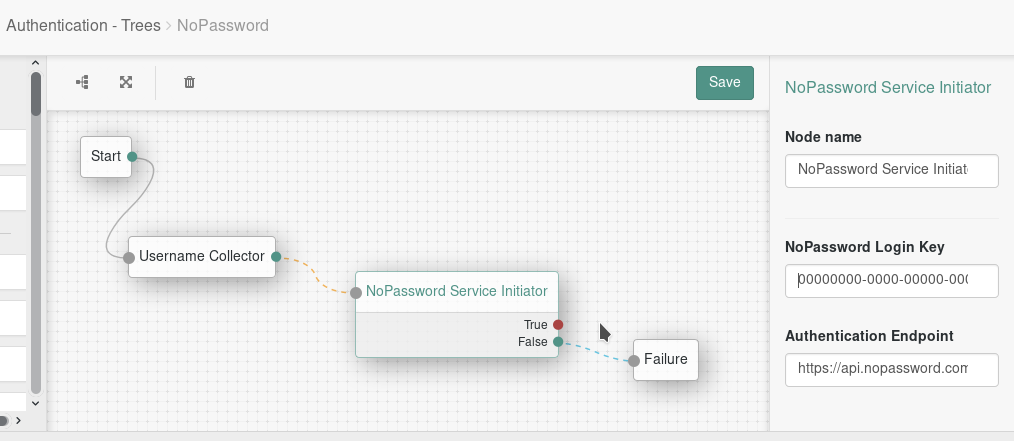
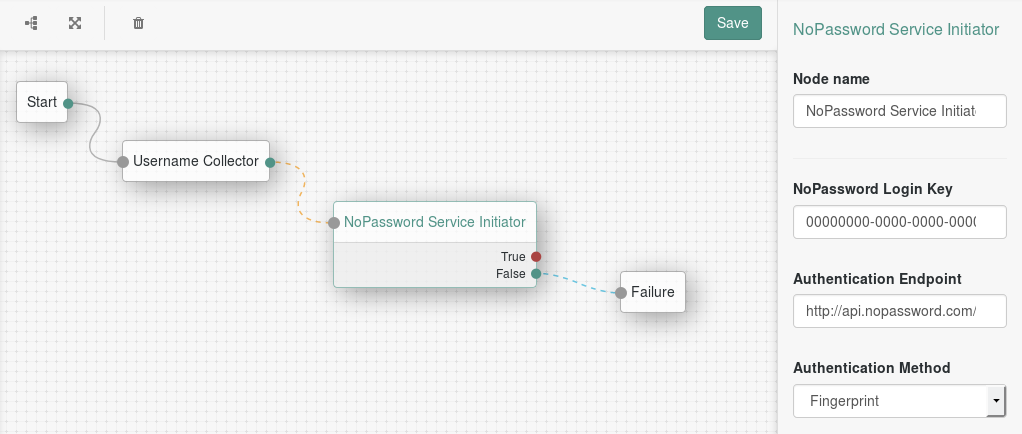
Authentication methods parameter added

diff --git a/src/main/java/com/nopassword/openam/node/AuthHelper.java b/src/main/java/com/nopassword/openam/node/AuthHelper.java
@@ -91,10 +91,11 @@ public class AuthHelper {
         return mapper.readValue(input.toString(), resultType);
     }
 
-    public static Map<String, Object> authenticateUser(String username, String clientIp, String authURL, String genericAPIKey) {
+    public static Map<String, Object> authenticateUser(String username, String clientIp,
+            String authURL, String genericAPIKey, AuthenticationMethod authMethod) {
         Map result = null;
         try {
-            Map request = makeAuthRequest(username, clientIp, genericAPIKey);
+            Map request = makeAuthRequest(username, clientIp, genericAPIKey, authMethod);
             result = doPost(authURL, request, Map.class);
 
             if ((boolean) result.get(Constants.SUCCEEDED)) {
@@ -112,7 +113,7 @@ public class AuthHelper {
         return result;
     }
 
-    public static Map makeAuthRequest(String username, String clientIp, String apiKey) {
+    public static Map makeAuthRequest(String username, String clientIp, String apiKey, AuthenticationMethod authMethod) {
         if (!isValidUsername(username)) {
             DEBUG.message("Invalid user: " + username);
             throw new IllegalArgumentException("invalid user");
@@ -122,12 +123,13 @@ public class AuthHelper {
             throw new IllegalArgumentException("invalid API key");
         }
 
-        Map<String, String> request = new HashMap();
+        Map<String, Object> request = new HashMap();
         request.put(Constants.API_KEY, apiKey);
         request.put(Constants.USERNAME, username);
         request.put(Constants.BROWSER_ID, UUID.randomUUID().toString());
         request.put(Constants.DEVICE_NAME, "ForgeRock AM");
         request.put(Constants.IP_ADDRESS, clientIp);
+        request.put(Constants.AUTHENTICATION_METHODS, new String[]{authMethod.name()});
         return request;
     }
 
@@ -143,15 +145,17 @@ public class AuthHelper {
         return apiKey == null ? false : API_KEY_REGEX.matcher(apiKey).matches();
     }
 
-    public static AuthStatus checkLoginToken(String loginToken, String url) {
+    public static AuthStatus checkLoginToken(String username, String loginToken, String url) {
         try {
             Map<String, String> request = new HashMap<>();
             request.put(Constants.ASYNC_LOGIN_TOKEN, loginToken);
+            request.put(Constants.USERNAME, username);
             Map<String, Object> result = doPost(url, request, Map.class);
+            DEBUG.message("result=" + result);
             result = (Map) result.get(Constants.VALUE);
-            DEBUG.message(result.toString());
+//            DEBUG.message(result.toString());
             return AuthStatus.valueOf((String) result.get(Constants.AUTH_STATUS));
-        } catch (IOException ex) {
+        } catch (Exception ex) {
             DEBUG.error("Error checking login token", ex);
             return AuthStatus.Failure;
         }

diff --git a/src/main/java/com/nopassword/openam/node/ServiceInitiatorNode.java b/src/main/java/com/nopassword/openam/node/ServiceInitiatorNode.java
@@ -25,6 +25,7 @@ import com.sun.identity.authentication.spi.AuthLoginException;
 import com.sun.identity.idm.AMIdentity;
 import com.sun.identity.idm.IdRepoException;
 import com.sun.identity.shared.debug.Debug;
+import com.sun.identity.sm.RequiredValueValidator;
 import org.forgerock.openam.annotations.sm.Attribute;
 import org.forgerock.openam.auth.node.api.*;
 import org.forgerock.openam.core.CoreWrapper;
@@ -47,18 +48,20 @@ public class ServiceInitiatorNode extends AbstractDecisionNode {
     private final CoreWrapper coreWrapper;
     private final static String DEBUG_FILE_NAME = ServiceInitiatorNode.class.getSimpleName();
     private final Debug DEBUG = Debug.getInstance(DEBUG_FILE_NAME);
-    public static final String ASYNC_LOGIN_TOKEN = "AsyncLoginToken";
 
     /**
      * Configuration for the node.
      */
     public interface Config {
 
-        @Attribute(order = 100)
+        @Attribute(order = 100, validators = {RequiredValueValidator.class})
         String noPasswordLoginKey();
 
-        @Attribute(order = 200)
+        @Attribute(order = 200, validators = {RequiredValueValidator.class})
         String authEndpoint();
+
+        @Attribute(order = 300, validators = {RequiredValueValidator.class})
+        AuthenticationMethod authMethod();
 
     }
 
@@ -97,14 +100,17 @@ public class ServiceInitiatorNode extends AbstractDecisionNode {
             return goTo(false).build();
         }
 
-        DEBUG.message("email="+email);
-        
+        DEBUG.message("email=" + email);
+
         Map<String, Object> result = AuthHelper.authenticateUser(
-                email, context.request.clientIp, config.authEndpoint(), config.noPasswordLoginKey());
+                email, context.request.clientIp, config.authEndpoint(),
+                config.noPasswordLoginKey(), config.authMethod());
         DEBUG.message(result.toString());
         String status = (String) result.get(Constants.AUTH_STATUS);
+        
         if (AuthStatus.WaitingForResponse.name().equals(status)) {
-            context.sharedState.add(ASYNC_LOGIN_TOKEN, (String) result.get(Constants.ASYNC_LOGIN_TOKEN));
+            context.sharedState.add(Constants.ASYNC_LOGIN_TOKEN, (String) result.get(Constants.ASYNC_LOGIN_TOKEN));
+            context.sharedState.add(Constants.USERNAME, email);
             return goTo(true).build();
         } else {
             return goTo(false).build();

diff --git a/src/test/java/com/nopassword/openam/node/AuthHelperTest.java b/src/test/java/com/nopassword/openam/node/AuthHelperTest.java
@@ -18,8 +18,6 @@
  */
 package com.nopassword.openam.node;
 
-import com.nopassword.openam.node.AuthHelper;
-import com.nopassword.openam.node.Constants;
 import java.util.Map;
 import org.testng.Assert;
 import org.testng.Assert.ThrowingRunnable;
@@ -34,8 +32,7 @@ public class AuthHelperTest {
     @Test
     public void makeValidAuthRequest() {
         Map<String, String> request
-                = AuthHelper.makeAuthRequest(
-                        "user@example.com", "10.0.0.1", "00000000-0000-0000-0000-000000000000");
+                = AuthHelper.makeAuthRequest("user@example.com", "10.0.0.1", "00000000-0000-0000-0000-000000000000", AuthenticationMethod.Pattern);
 
         Assert.assertNotEquals(request.get(Constants.USERNAME).length(), 0);
         Assert.assertEquals(request.get(Constants.API_KEY).length(), 36);
@@ -46,19 +43,18 @@ public class AuthHelperTest {
     @Test
     public void makeInvalidAuthRequest() {
         ThrowingRunnable tr = () -> {
-            AuthHelper.makeAuthRequest(
-                    "user.com", "10.0.0.1", "00000000-0000-0000-0000-000000000000");
+            AuthHelper.makeAuthRequest("user.com", "10.0.0.1", "00000000-0000-0000-0000-000000000000", AuthenticationMethod.Pattern);
         };
         Assert.assertThrows(IllegalArgumentException.class, tr);
 
         tr = () -> {
-            AuthHelper.makeAuthRequest("user@example.com", "10.0.0.1", "");
+            AuthHelper.makeAuthRequest("user@example.com", "10.0.0.1", "", AuthenticationMethod.Pattern);
         };
         Assert.assertThrows(IllegalArgumentException.class, tr);
         
 
         tr = () -> {
-            AuthHelper.makeAuthRequest(null, null, null);
+            AuthHelper.makeAuthRequest(null, null, null, AuthenticationMethod.Pattern);
         };
         Assert.assertThrows(IllegalArgumentException.class, tr);
     }

diff --git a/src/main/java/com/nopassword/openam/node/AuthenticationMethod.java b/src/main/java/com/nopassword/openam/node/AuthenticationMethod.java
@@ -1,0 +1,27 @@
+/*
+ * The contents of this file are subject to the terms of the Common Development and
+ * Distribution License (the License). You may not use this file except in compliance with the
+ * License.
+ *
+ * You can obtain a copy of the License at legal/CDDLv1.0.txt. See the License for the
+ * specific language governing permission and limitations under the License.
+ *
+ * When distributing Covered Software, include this CDDL Header Notice in each file and include
+ * the License file at legal/CDDLv1.0.txt. If applicable, add the following below the CDDL
+ * Header, with the fields enclosed by brackets [] replaced by your own identifying
+ * information: "Portions copyright [year] [name of copyright owner]".
+ *
+ * Copyright 2017 ForgeRock AS.
+ */
+/**
+ * Portions Copyright 2018 Wiacts Inc.
+ */
+package com.nopassword.openam.node;
+
+/**
+ *
+ * @author NoPassword
+ */
+public enum AuthenticationMethod {
+    FaceLive, FaceVoice, Fingerprint, Pattern, Voice
+}

diff --git a/src/main/java/com/nopassword/openam/node/ServiceDecisionNode.java b/src/main/java/com/nopassword/openam/node/ServiceDecisionNode.java
@@ -69,8 +69,9 @@ public class ServiceDecisionNode extends NoPasswordDecisionNode {
 
     @Override
     public Action process(TreeContext context) {
-        String loginToken = context.sharedState.get(ServiceInitiatorNode.ASYNC_LOGIN_TOKEN).asString();
-        AuthStatus status = AuthHelper.checkLoginToken(loginToken, config.loginTokenEndpoint());
+        String username = context.sharedState.get(Constants.USERNAME).asString();
+        String loginToken = context.sharedState.get(Constants.ASYNC_LOGIN_TOKEN).asString();
+        AuthStatus status = AuthHelper.checkLoginToken(username, loginToken, config.loginTokenEndpoint());
 
         switch (status) {
             case WaitingForResponse:

diff --git a/src/main/java/com/nopassword/openam/node/Constants.java b/src/main/java/com/nopassword/openam/node/Constants.java
@@ -45,8 +45,9 @@ public class Constants {
     public static final String ASYNC_LOGIN_TOKEN = "AsyncLoginToken";
 
     //config properties
-    public static String AUTH_URL = "authUrl";
-    public static String GENERIC_API_KEY = "genericApiKey";
-    public static String EMAIL_DOMAIN = "emailDomain";
+    public static final String AUTH_URL = "authUrl";
+    public static final String GENERIC_API_KEY = "genericApiKey";
+    public static final String EMAIL_DOMAIN = "emailDomain";
+    public static final String AUTHENTICATION_METHODS = "AuthenticationMethods";
 
 }

diff --git a/README.md b/README.md
@@ -26,7 +26,7 @@ Follow this steps in order to install the node:
 
 ![image](/images/tree_1.png)
 
-9. Select the **NoPassword Service Initiator** node and set the NoPassword Login Key. Paste the key value from step 4 on **NoPassword Login Key**. Set the following URL `https://api.nopassword.com/auth/loginAsync` in **Authentication Endpoint**.
+9. Select the **NoPassword Service Initiator** node and set the NoPassword Login Key. Paste the key value from step 4 on **NoPassword Login Key**. Set the following URL `https://api.nopassword.com/auth/loginAsync` in **Authentication Endpoint**. Select the **Authentication Mode** that you'd like to use.
 10. Add 3 nodes: Polling Wait Node, NoPassword Service Decision and Success and connect them as show in the image below.
 
 ![image](/images/tree_2.png)
